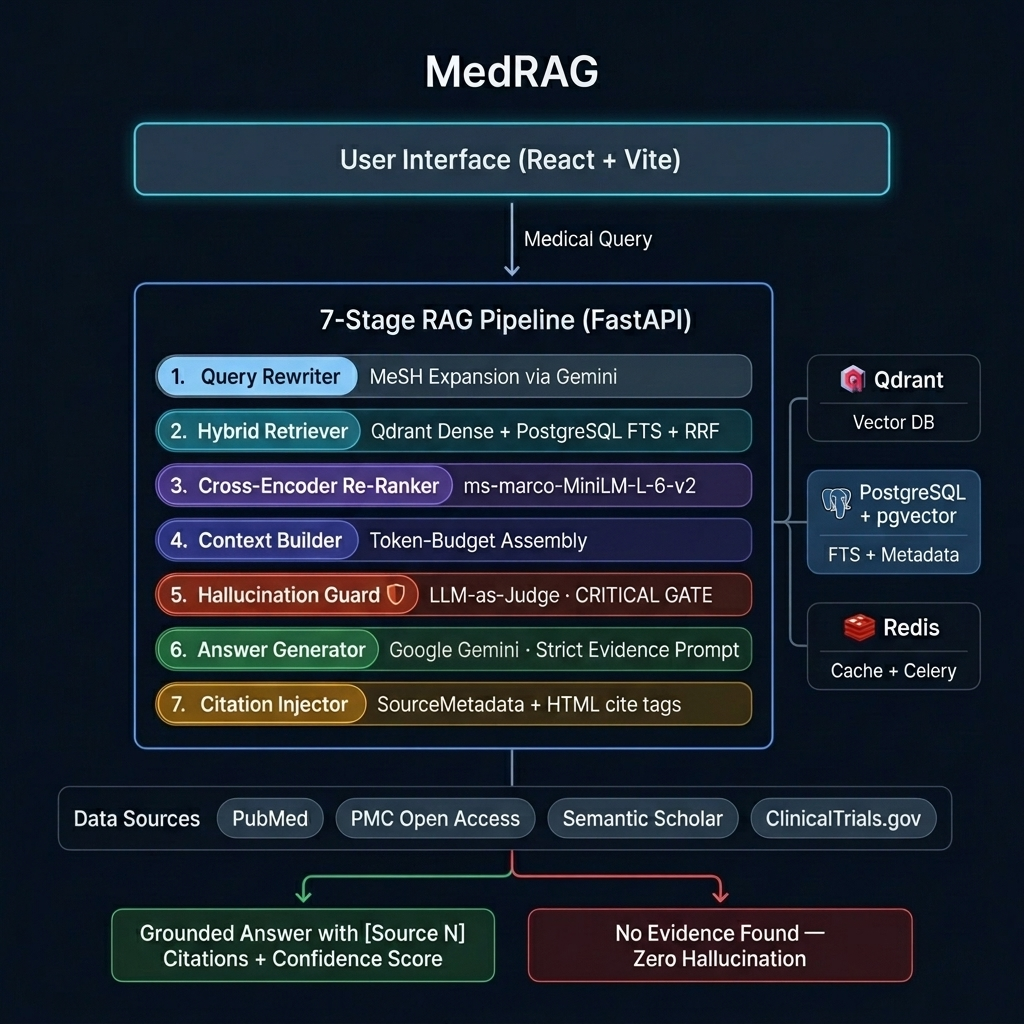
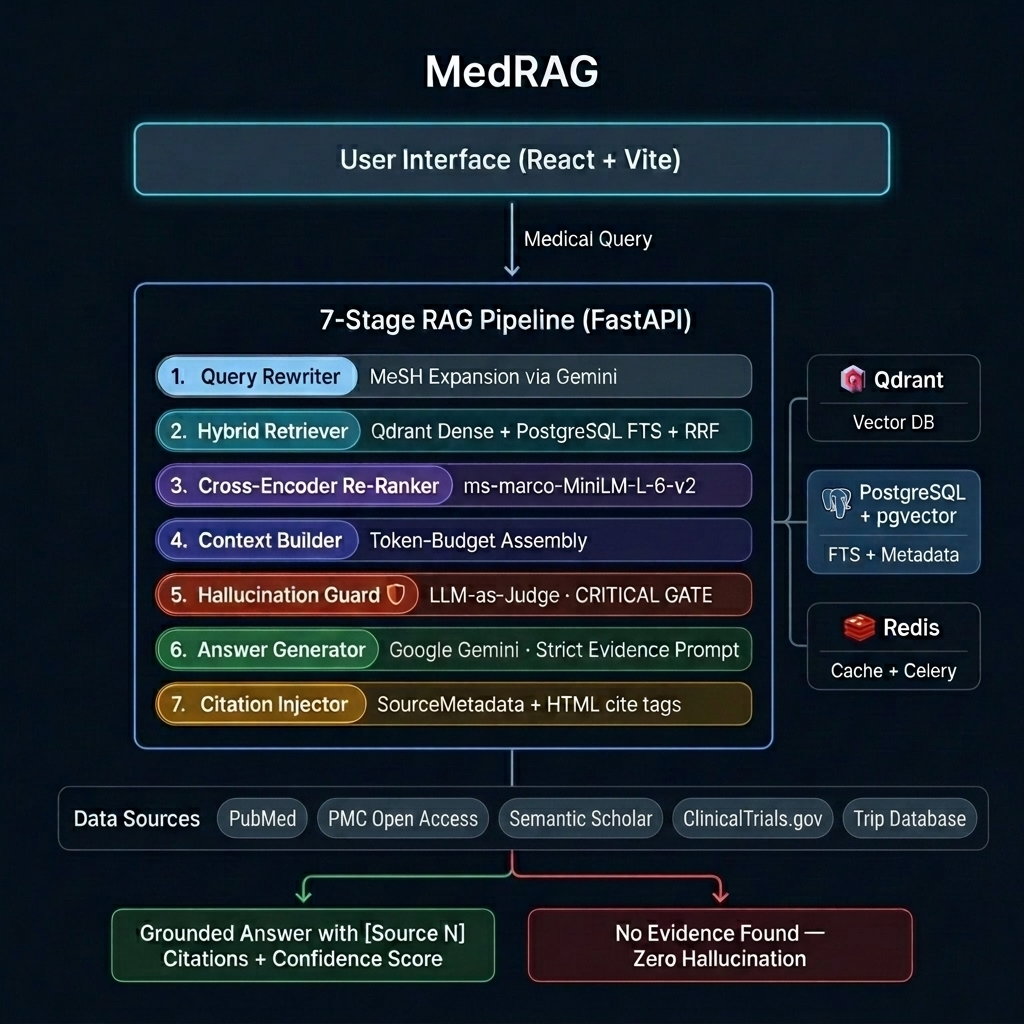
docs: update README, architecture guide, infrastructure guide, running guide, and architecture diagram with Trip Database details

Changed region(s): [[0.2188, 0.7812, 0.9688, 0.8438]]

diff --git a/docs/architecture_and_working.md b/docs/architecture_and_working.md
@@ -92,3 +92,17 @@ Every user query submitted to the MedRAG system flows sequentially through these
 | **5** | `hallucination_guard.py` | Flags tangentially related context as insufficient. | Rejects query to prevent speculative assumptions. |
 | **6** | `pipeline.py` | Rigid, templated failure messages. | Prevents conversational drift when RAG fails. |
 | **7** | `pipeline.py` | Conditionless medical disclaimer appended to every payload. | Restricts clinical liability. |
+
+---
+
+## 📚 Data Sources & Ingestion Details
+
+The MedRAG system supports five data sources to ensure a wide clinical evidence base. When ingestion is triggered via `POST /api/v1/ingest`, the pipeline routes requests based on the selected sources:
+
+1. **PubMed**: Downloads clinical study abstracts using NCBI E-utilities.
+2. **PMC (PubMed Central)**: Downloads and indexes open-access full-text clinical studies.
+3. **Semantic Scholar**: Searches and retrieves academic publications across the Semantic Scholar Research Graph.
+4. **ClinicalTrials.gov**: Indexes registered clinical trials, protocols, primary endpoints, and results.
+5. **Trip Medical Database**:
+   - Queries `https://www.tripdatabase.com/api/search` to retrieve evidence-based clinical guidelines and reviews.
+   - **On-the-Fly Resolution**: Since Trip search returns meta-fields without abstracts, MedRAG parses PMIDs or DOIs from the Trip results and fetches full abstracts from PubMed (NCBI API) or Crossref (DOI API) in real-time, ensuring only high-quality, text-grounded chunks are added to Qdrant/Postgres.

diff --git a/README.md b/README.md
@@ -22,7 +22,7 @@ Zero hallucination tolerance — if evidence doesn't exist, the system says so.
 
 ## ✨ Features
 
-- 🔬 **Evidence-only answers** — every response cites `[Source N]` from PubMed, PMC, Semantic Scholar, or ClinicalTrials.gov
+- 🔬 **Evidence-only answers** — every response cites `[Source N]` from PubMed, PMC, Semantic Scholar, ClinicalTrials.gov, or Trip Database
 - 🛡 **7-layer hallucination guard** — LLM-as-judge validates context *before* generating any answer
 - 📚 **Hybrid retrieval** — dense (Qdrant semantic) + sparse (PostgreSQL BM25/FTS) merged with Reciprocal Rank Fusion
 - 🔄 **Medical query expansion** — Claude rewrites queries into MeSH-optimized PubMed search variants
@@ -305,11 +305,11 @@ Index medical literature for a topic.
 {
   "topic": "CRISPR gene therapy sickle cell disease",
   "max_results": 50,
-  "sources": ["pubmed", "pmc", "semantic_scholar", "clinical_trials"]
+  "sources": ["pubmed", "pmc", "semantic_scholar", "clinical_trials", "trip"]
 }
 ```
 
-Valid sources: `pubmed`, `pmc`, `semantic_scholar`, `clinical_trials`
+Valid sources: `pubmed`, `pmc`, `semantic_scholar`, `clinical_trials`, `trip`
 
 ### `GET /api/v1/health`
 

diff --git a/docs/infrastructure_purposes.md b/docs/infrastructure_purposes.md
@@ -56,6 +56,15 @@ This document explains the technical purpose, architectural role, and advantages
 
 ---
 
+## 🔗 6. Crossref & NCBI E-utilities (Metadata Resolution APIs)
+*   **What it is**: Publicly accessible web APIs containing indexing, metadata, and citation databases for scientific publications.
+*   **Role in MedRAG**: Resolves abstracts and enriches clinical evidence for metadata-only sources (such as the **Trip Database**).
+*   **Why it is used**:
+    1. **Overcoming API Limitations**: Some search engines, like the Trip Database, return search matches without full abstracts. To index them for RAG, MedRAG extracts the PMID or DOI and queries PubMed or Crossref to pull down the complete abstract dynamically on-the-fly.
+    2. **Ensuring Chunk Quality**: Ensures that only papers with valid, complete text are processed and stored, rather than indexing sparse titles.
+
+---
+
 ## 🧠 Summary Table: Stack Alignment
 
 | Infrastructure | Categorization | Architectural Problem it Solves | Impact on MedRAG Assistant |

diff --git a/docs/running_guide.md b/docs/running_guide.md
@@ -127,12 +127,13 @@ curl -X POST http://localhost:8000/api/v1/ingest \
     "max_results": 50
   }'
 
-# Index ACE Inhibitors literature for hypertension
+# Index ACE Inhibitors literature for hypertension via Trip Database
 curl -X POST http://localhost:8000/api/v1/ingest \
   -H "Content-Type: application/json" \
   -d '{
     "topic": "hypertension treatment ACE inhibitors guidelines",
-    "max_results": 50
+    "max_results": 20,
+    "sources": ["trip"]
   }'
 ```
 
